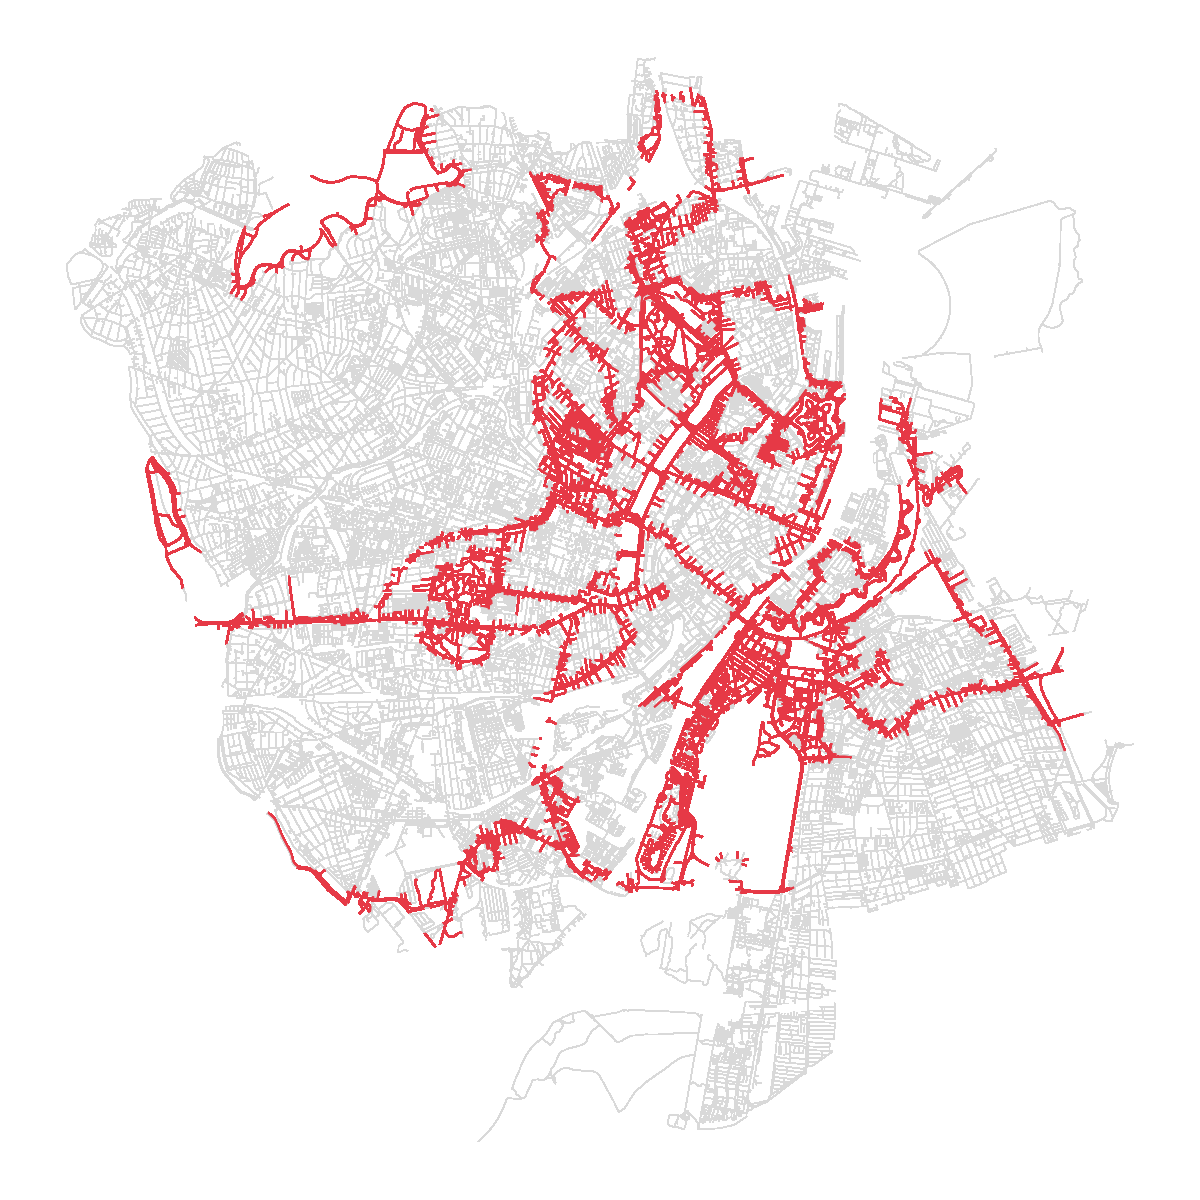
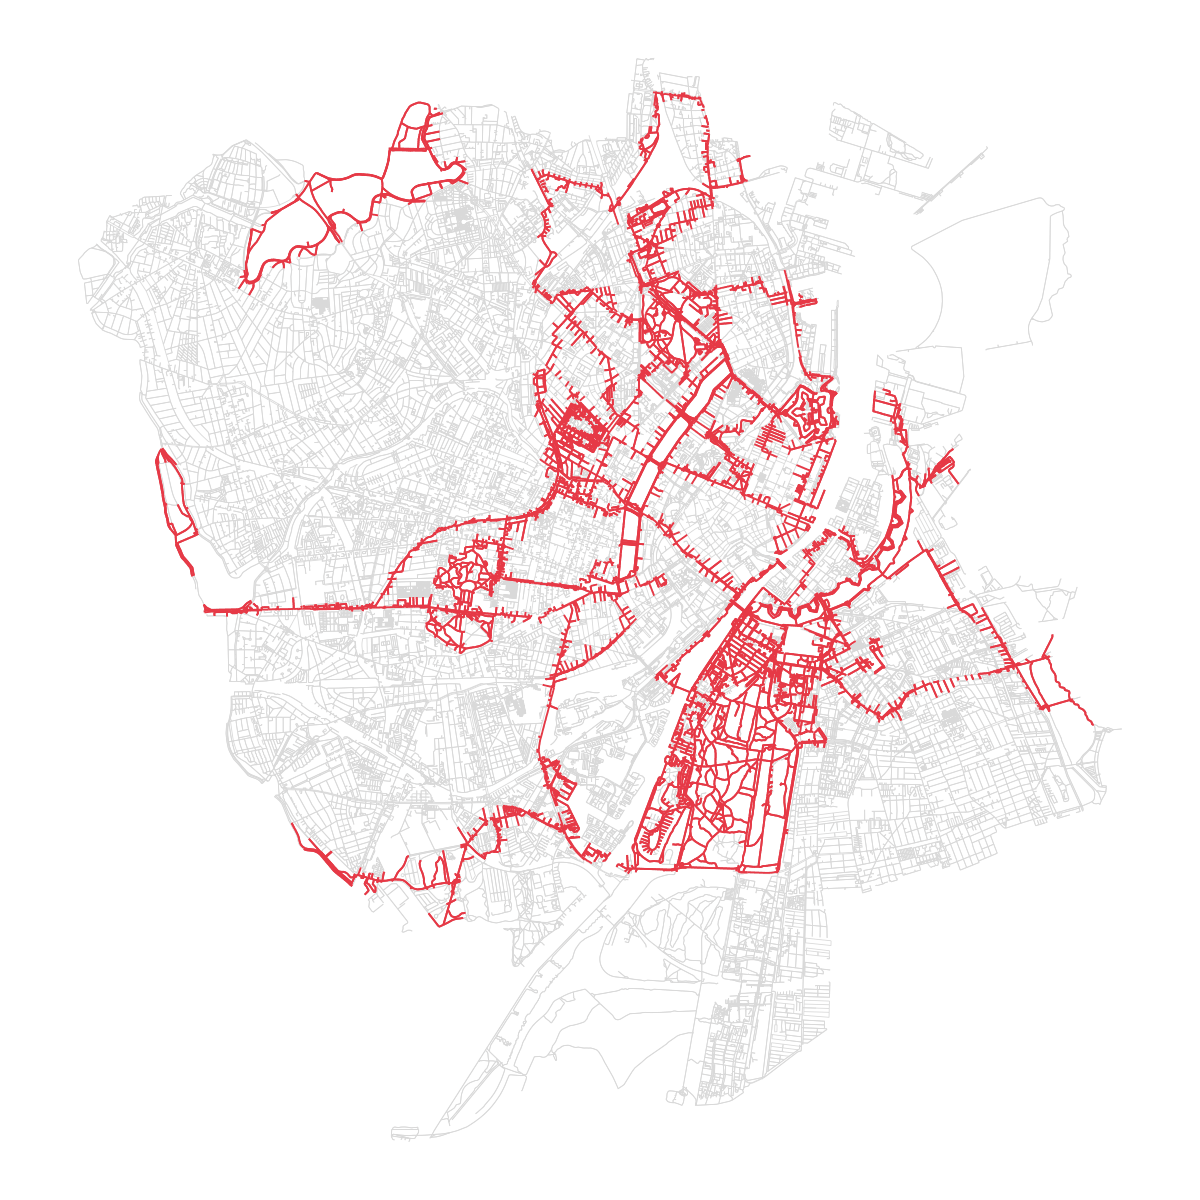
Shorter buffer distance, new trails, and bug fixes, for EV_CPH

diff --git a/EV_CPH.md b/EV_CPH.md
@@ -18,25 +18,25 @@ Inspired by the "every street" mapping challenge, this project tracks exactly wh
 
 ### How it works
 
-The street network (all walkable ways, including footpaths through parks) is pulled from OpenStreetMap and resampled into a point every ~20m. A point counts as covered as soon as one of my GPS tracks passes within a small buffer of it — tracks come from my own recorded runs and hikes, plus my full Strava activity history filtered down to on-foot activities that actually took place in Denmark.
+The street network (all walkable ways, including footpaths through parks and separated bike lanes) is pulled from OpenStreetMap and resampled into a point every ~10m. A point counts as covered as soon as one of my GPS tracks passes within a small buffer of it — tracks come from my own recorded runs and hikes, plus my full Strava activity history filtered down to on-foot activities that actually took place in Denmark.
 
 ### Current coverage
 
-**1,110 km done out of 5,178 km of street network (21.4%).**
+**939 km done out of 5,322 km of street network (17.6%).**
 
 | District | Done (km) | Total (km) | % done |
 |---|---:|---:|---:|
-| Nørrebro | 120.8 | 275.6 | 43.8% |
-| Indre By | 237.6 | 602.0 | 39.5% |
-| Østerbro | 159.1 | 506.3 | 31.4% |
-| Amager Vest | 195.3 | 671.6 | 29.1% |
-| Frederiksberg | 127.1 | 606.2 | 21.0% |
-| Vesterbro-Kongens Enghave | 99.5 | 529.4 | 18.8% |
-| Amager Øst | 62.1 | 435.9 | 14.2% |
-| Bispebjerg | 39.0 | 405.0 | 9.6% |
-| Valby | 31.6 | 457.9 | 6.9% |
-| Brønshøj-Husum | 20.7 | 368.7 | 5.6% |
-| Vanløse | 17.1 | 319.1 | 5.4% |
+| Nørrebro | 97.1 | 278.6 | 34.9% |
+| Indre By | 183.0 | 571.7 | 32.0% |
+| Amager Vest | 225.1 | 820.5 | 27.4% |
+| Østerbro | 123.0 | 498.6 | 24.7% |
+| Frederiksberg | 93.8 | 578.8 | 16.2% |
+| Vesterbro-Kongens Enghave | 62.0 | 539.9 | 11.5% |
+| Amager Øst | 48.5 | 445.0 | 10.9% |
+| Bispebjerg | 38.4 | 404.0 | 9.5% |
+| Brønshøj-Husum | 28.4 | 397.6 | 7.2% |
+| Valby | 25.4 | 469.5 | 5.4% |
+| Vanløse | 14.5 | 317.9 | 4.6% |
 
 *(Copenhagen's 10 official bydele, plus Frederiksberg as its own municipality — boundaries from Københavns Kommune's open-data service, since OpenStreetMap doesn't carry them.)*
 
